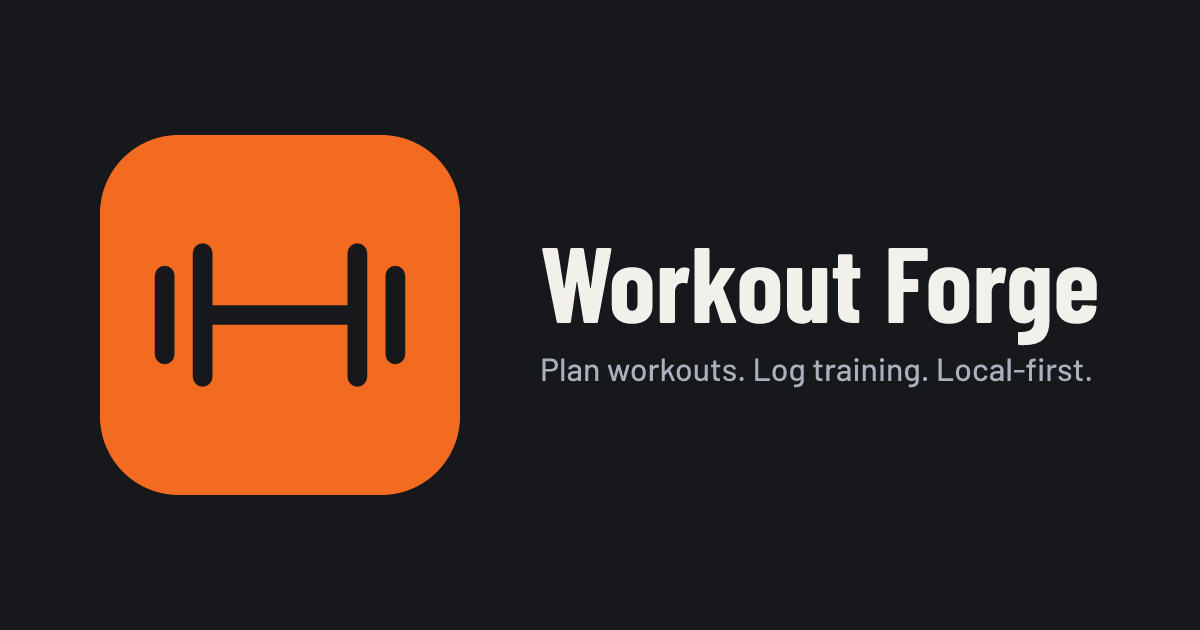
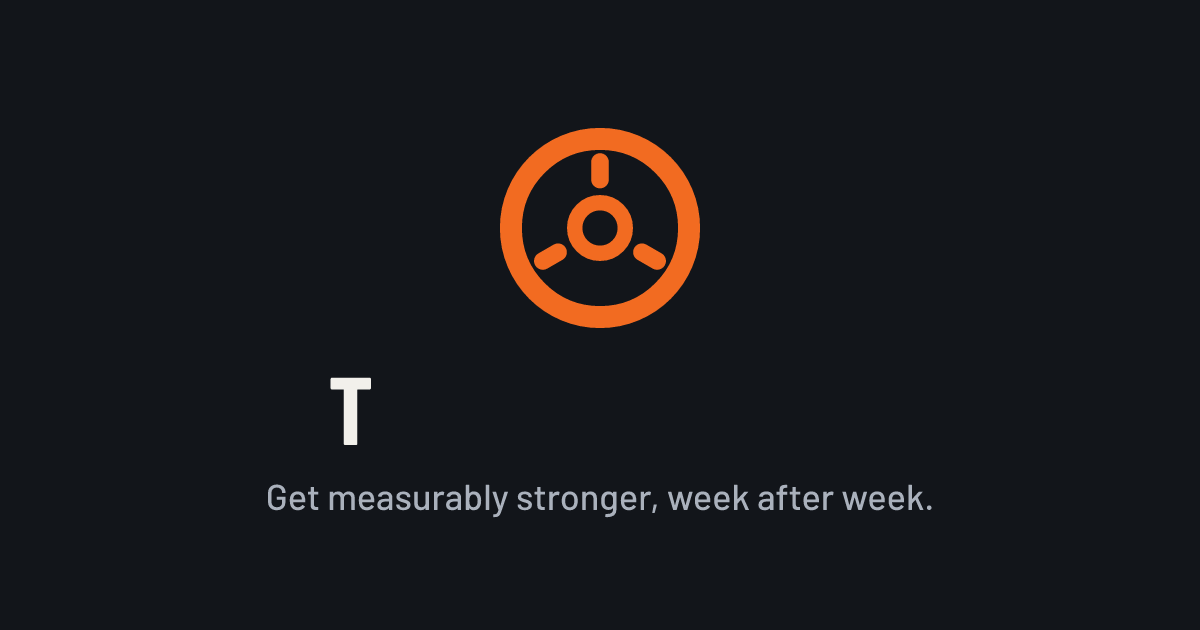
feat: replace WF tile with the plate brand mark

Changed region(s): [[0.0617, 0.181, 0.925, 0.8143]]

diff --git a/src/App.css b/src/App.css
@@ -4,7 +4,7 @@
 .app-shell { min-height: 100vh; background: radial-gradient(900px 460px at 76% -12%, var(--glow), transparent 65%), var(--canvas); color: var(--ink); }
 .topbar { height: 68px; display: flex; align-items: center; gap: 28px; padding: 0 clamp(20px, 5vw, 72px); border-bottom: 1px solid var(--hairline); background: color-mix(in srgb, var(--canvas) 85%, transparent); position: sticky; top: 0; z-index: 3; backdrop-filter: blur(18px); }
 .brand { appearance: none; border: 0; background: none; color: var(--ink); display: flex; align-items: center; gap: 10px; font: 500 12px var(--font-mono); letter-spacing: 0.08em; padding: 0; min-height: 44px; }
-.brand-mark { width: 29px; height: 29px; display: grid; place-items: center; background: var(--primary); color: var(--on-primary); border-radius: 7px; font: 600 10px var(--font-sans); letter-spacing: -0.05em; }
+.brand-mark { flex: none; display: block; }
 nav { display: flex; gap: 4px; }
 nav button { display: flex; align-items: center; gap: 8px; color: var(--ink-subtle); background: transparent; border: 0; padding: 0 12px; min-height: 40px; border-radius: var(--radius-sm); font-size: 14px; font-weight: 500; }
 nav button:hover, nav button.nav-active { color: var(--ink); background: var(--surface-3); }
@@ -450,7 +450,6 @@ select option { background: var(--surface-2); color: var(--ink); }
 .landing { min-height: 100vh; background: radial-gradient(900px 460px at 76% -12%, var(--glow), transparent 65%), var(--canvas); color: var(--ink); display: flex; flex-direction: column; }
 .landing-bar { display: flex; flex-wrap: wrap; gap: 16px; align-items: center; justify-content: space-between; padding: 24px clamp(20px, 4vw, 48px); }
 .landing-brand { display: flex; align-items: center; gap: 12px; font: 700 26px var(--font-display); letter-spacing: 0.06em; text-transform: uppercase; }
-.landing-mark { width: 40px; height: 40px; border-radius: 10px; background: var(--primary); color: var(--on-primary); display: grid; place-items: center; }
 .landing-badge { font-size: 14px; font-weight: 600; color: var(--ink-muted); border: 1px solid var(--hairline-strong); border-radius: var(--radius-pill); padding: 8px 16px; }
 .landing-hero { width: 100%; max-width: 1200px; margin: 0 auto; padding: clamp(24px, 5vw, 56px) clamp(20px, 4vw, 48px) clamp(40px, 6vw, 72px); display: flex; flex-wrap: wrap; gap: clamp(32px, 5vw, 64px); align-items: center; }
 .landing-copy { flex: 1 1 480px; min-width: 0; }

diff --git a/src/views/LandingView.tsx b/src/views/LandingView.tsx
@@ -4,6 +4,7 @@ import { muscleMapView } from '../domain/muscleVolume'
 import { sampleHistory, sampleNow, sampleRecordSessionId, sampleWeek } from '../domain/sampleData'
 import { completedSessions } from '../domain/weekly'
 import { AuthForm, type AuthResult } from './AuthForm'
+import { BrandMark } from './BrandMark'
 import { FeedbackForm } from './FeedbackForm'
 import { MuscleMap } from './MuscleMap'
 
@@ -42,7 +43,6 @@ const faq = [
 const sampleRecord = findPersonalRecord(sampleHistory, sampleRecordSessionId, 'barbell-bench-press')
 const sampleMap = muscleMapView(completedSessions(sampleHistory, null), baseExercises, sampleNow, null)
 
-const barbell = <svg width="24" height="24" viewBox="0 0 24 24" fill="none" stroke="currentColor" strokeWidth="2.2" strokeLinecap="round" aria-hidden="true"><path d="M6 7v10M3 9v6M18 7v10M21 9v6M6 12h12" /></svg>
 
 function PhonePreview({ workout }: { workout: ScheduledWorkout }) {
   const [first, ...rest] = workout.exercises
@@ -69,7 +69,7 @@ function PhonePreview({ workout }: { workout: ScheduledWorkout }) {
 export function LandingView({ cloudEnabled, onStart, onSignIn, onSignUp, onReset, onFeedback }: Props) {
   return <div className="landing">
     <header className="landing-bar">
-      <div className="landing-brand"><span className="landing-mark">{barbell}</span><span>Workout Forge</span></div>
+      <div className="landing-brand"><BrandMark size={44} decorative /><span>Workout Forge</span></div>
       <nav className="landing-nav" aria-label="Page">
         {cloudEnabled && <a className="landing-link" href="#signin">Sign in</a>}
         <a className="landing-badge" href="#feedback">Early access · feedback welcome</a>

diff --git a/src/App.tsx b/src/App.tsx
@@ -23,6 +23,7 @@ import { Icon } from './views/Icon'
 import { LibraryView } from './views/LibraryView'
 import { useForeground } from './lib/useForeground'
 import { PlanView } from './views/PlanView'
+import { BrandMark } from './views/BrandMark'
 import { LandingView } from './views/LandingView'
 import { LoadingView } from './views/LoadingView'
 import { ResetPasswordView } from './views/ResetPasswordView'
@@ -479,7 +480,7 @@ function App() {
   if (recovering) return <main className="app-shell"><ResetPasswordView onSubmit={saveNewPassword} /></main>
 
   return <main className="app-shell">
-    <header className="topbar"><button className="brand" onClick={navigate(home())} aria-label="Workout Forge home"><span className="brand-mark">WF</span><span>WORKOUT FORGE</span></button>
+    <header className="topbar"><button className="brand" onClick={navigate(home())} aria-label="Workout Forge home"><BrandMark size={32} /><span>WORKOUT FORGE</span></button>
       <nav aria-label="Primary navigation">
         {block?.locked && <button aria-current={view === 'today' || view === 'session' ? 'page' : undefined} className={view === 'today' || view === 'session' ? 'nav-active' : ''} onClick={navigate('today')}><Icon name="workout" />Workout</button>}
         <button aria-current={view === 'progress' ? 'page' : undefined} className={view === 'progress' ? 'nav-active' : ''} onClick={navigate('progress')}><Icon name="progress" />Progress</button>

diff --git a/index.html b/index.html
@@ -2,7 +2,7 @@
 <html lang="en">
   <head>
     <meta charset="UTF-8" />
-    <link rel="icon" type="image/svg+xml" href="/workout-forge-icon.svg" />
+    <link rel="icon" type="image/svg+xml" href="/plate-mark-small.svg" />
     <meta name="viewport" content="width=device-width, initial-scale=1.0, viewport-fit=cover" />
     <meta name="theme-color" content="#16181b" media="(prefers-color-scheme: dark)" />
     <meta name="theme-color" content="#f6f7f9" media="(prefers-color-scheme: light)" />
@@ -16,7 +16,7 @@
     <meta property="og:image" content="https://workoutforge.app/og-image.png" />
     <meta property="og:image:width" content="1200" />
     <meta property="og:image:height" content="630" />
-    <meta property="og:image:alt" content="Workout Forge: the orange barbell app icon beside the words Workout Forge, Plan workouts. Log training. Local-first." />
+    <meta property="og:image:alt" content="Workout Forge: the orange plate mark above the words Workout Forge and the tagline Get measurably stronger, week after week." />
     <meta name="twitter:card" content="summary_large_image" />
     <meta name="twitter:title" content="Workout Forge — Workout Planner &amp; Training Log" />
     <meta name="twitter:description" content="A focused, local-first workout planner and training log. Build 2-, 3- or 4-day programs in 4- to 12-week blocks and log every set — works fully offline." />

diff --git a/src/views/BrandMark.tsx b/src/views/BrandMark.tsx
@@ -1,0 +1,14 @@
+const orange = '#f26b21'
+
+/** The Plate: Workout Forge's mark, drawn on a 100 grid. Never sits on a tile. At 24px and below it drops the spokes and thickens the rings. */
+export function BrandMark({ size, decorative = false }: { size: number; decorative?: boolean }) {
+  const a11y = decorative ? { 'aria-hidden': true } : { role: 'img', 'aria-label': 'Workout Forge' }
+  return <svg className="brand-mark" data-testid="brand-mark" width={size} height={size} viewBox="0 0 100 100" {...a11y}>
+    {size <= 24
+      ? <g fill="none" stroke={orange}><circle cx="50" cy="50" r="39" strokeWidth="14" /><circle cx="50" cy="50" r="12" strokeWidth="11" /></g>
+      : <>
+        <g fill="none" stroke={orange}><circle cx="50" cy="50" r="40.5" strokeWidth="10" /><circle cx="50" cy="50" r="11.5" strokeWidth="7" /></g>
+        <g fill={orange}>{[0, 120, 240].map((angle) => <rect key={angle} x="46" y="16" width="8" height="16" rx="4" transform={`rotate(${angle} 50 50)`} />)}</g>
+      </>}
+  </svg>
+}

diff --git a/src/App.test.tsx b/src/App.test.tsx
@@ -29,6 +29,14 @@ const planTwoDays = () => { openPlanner(); addToDay(1, 'Barbell Bench Press', 'C
 const savedState = () => JSON.parse(window.localStorage.getItem('workout-forge:v3') ?? '{}') as { history?: unknown[] }
 
 describe('Workout Forge gym flow', () => {
+  it('shows the plate brand mark, not a tile, in the app header', () => {
+    renderApp()
+    const header = screen.getByRole('banner')
+    const mark = within(header).getByRole('img', { name: 'Workout Forge' })
+    expect(mark.getAttribute('data-testid')).toBe('brand-mark')
+    expect(header.textContent).not.toMatch(/^WF/)
+  })
+
   it('offers 2, 3 and 4 days and 4, 6, 8 or 12 weeks, and nothing else', () => {
     renderApp()
     expect(screen.getAllByRole('button', { name: /days per week/i }).map((button) => button.getAttribute('aria-label'))).toEqual(['2 days per week', '3 days per week', '4 days per week'])

diff --git a/vite.config.ts b/vite.config.ts
@@ -17,12 +17,9 @@ export default defineConfig({
         display: 'standalone',
         start_url: '/',
         icons: [
-          {
-            src: '/workout-forge-icon.svg',
-            sizes: 'any',
-            type: 'image/svg+xml',
-            purpose: 'any maskable',
-          },
+          { src: '/icons/icon-192.png', sizes: '192x192', type: 'image/png', purpose: 'any' },
+          { src: '/icons/icon-512.png', sizes: '512x512', type: 'image/png', purpose: 'any' },
+          { src: '/icons/icon-512-maskable.png', sizes: '512x512', type: 'image/png', purpose: 'maskable' },
         ],
       },
     }),

diff --git a/DESIGN.md b/DESIGN.md
@@ -55,6 +55,16 @@ All colors are CSS variables in `src/index.css`. Never hardcode a hex value in a
 Body-size text is never dimmer than `ink-subtle` (contrast 6:1+ on canvas). Orange is for fills, borders and
 links at 14px+. Orange text uses `primary-text`, and text on an orange fill uses `on-primary` (dark), never white.
 
+## Brand mark
+
+The Plate: a barbell plate seen face-on. Sources are `public/plate-mark.svg` (primary) and `public/plate-mark-small.svg`, and `BrandMark` in `src/views/BrandMark.tsx` draws the same geometry inline.
+
+- **Geometry (viewBox 100):** outer ring r40.5, stroke 10; hub ring r11.5, stroke 7; three rounded spokes (8×16, rx4, at y16) rotated 0, 120 and 240 about the center.
+- **Color:** forge orange `#f26b21` only, stroke and fill. This is the one literal hex outside the tokens, because the mark is fixed art.
+- **Small variant (24px and below, favicon):** no spokes; outer ring r39, stroke 14; hub ring r12, stroke 11. `BrandMark` switches on `size <= 24`.
+- **No tile:** the mark never sits on an orange or any other tile in the UI. The only tile is the charcoal `#12151a` square behind the raster PWA icons and the og:image, where the platform needs a background.
+- **Raster assets:** `npm run icons` (PWA icons, mark at 72%) and `npm run og` (1200×630) render from the primary SVG with resvg.
+
 ## Typography
 
 Barlow for body and Barlow Condensed (uppercase) for display headings, both bundled through `@fontsource` and imported in `src/main.tsx`, so there are no external font requests. `ui-monospace` is for the small uppercase labels only. Display headings use slight positive tracking; body uses none. Minimum text size is 12px. Weights and reps are `numeral-lg` (24px, 600, `tnum`).
